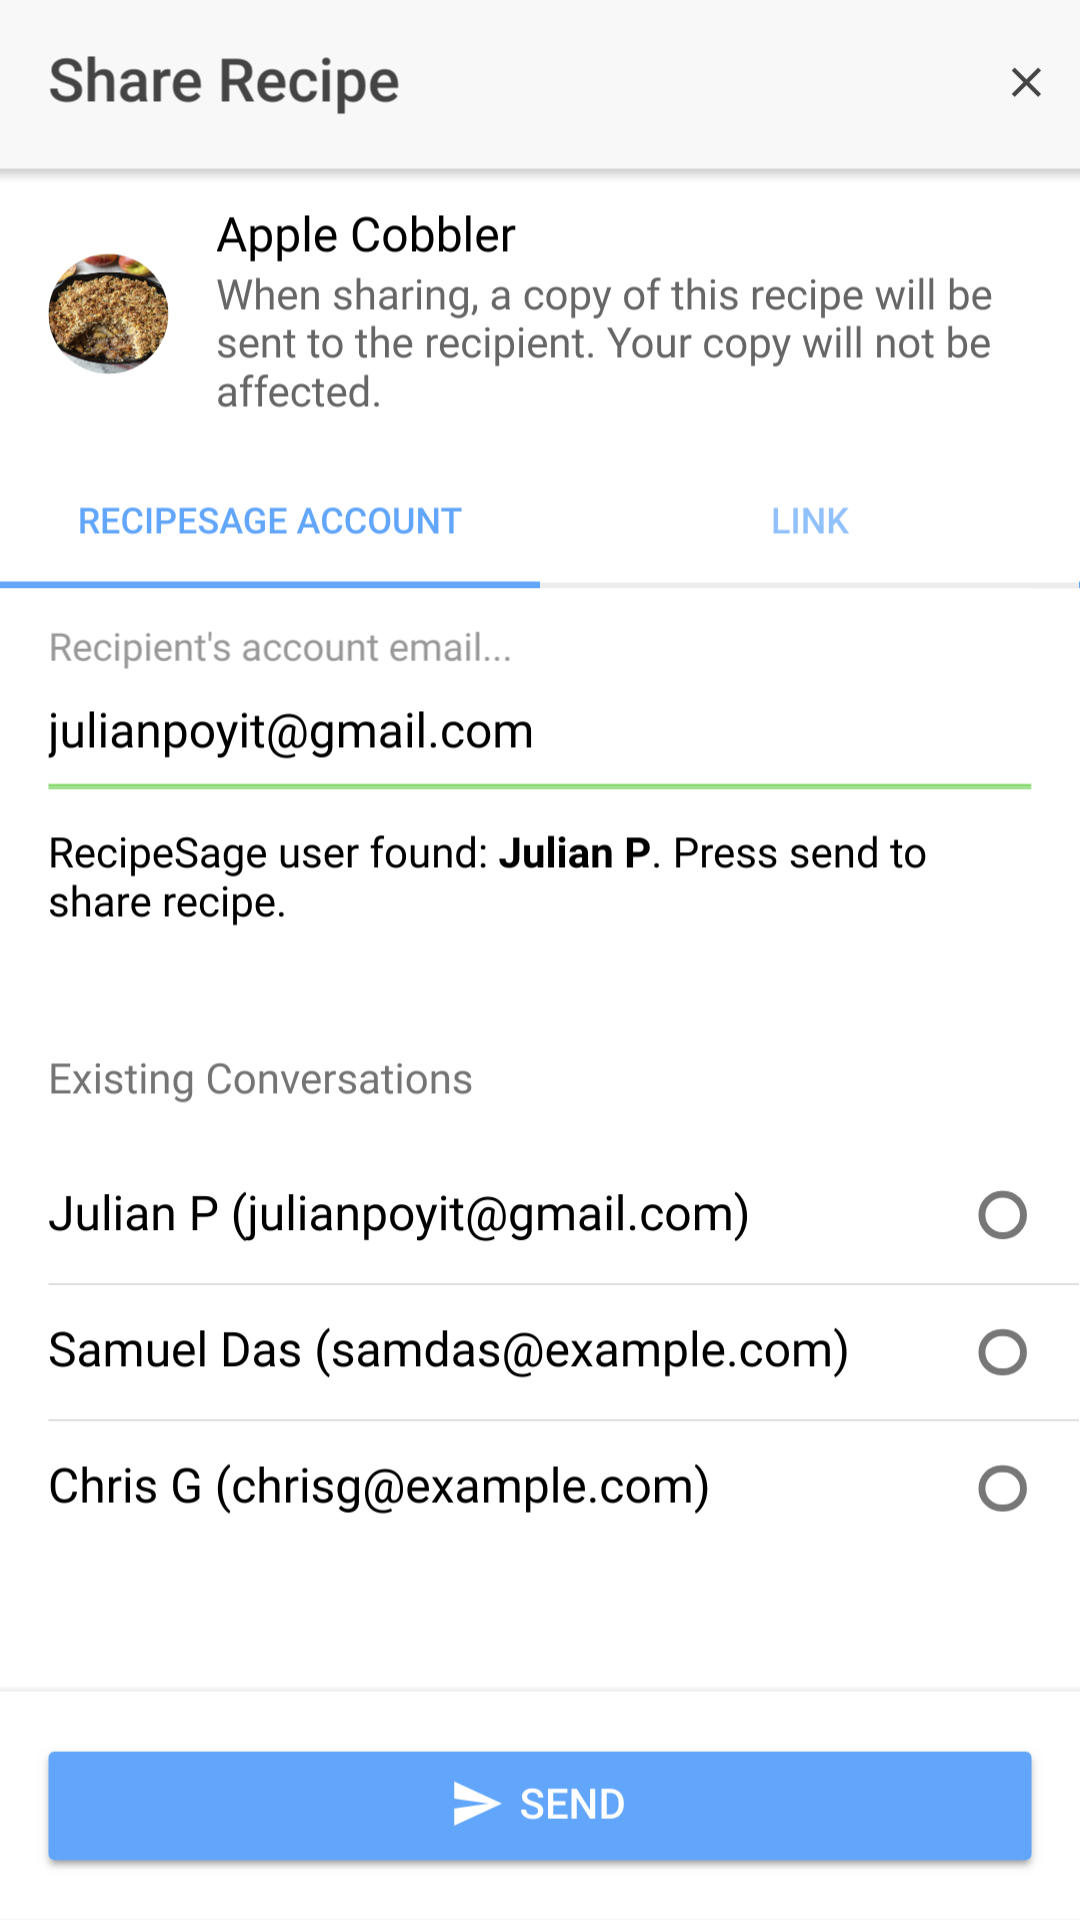
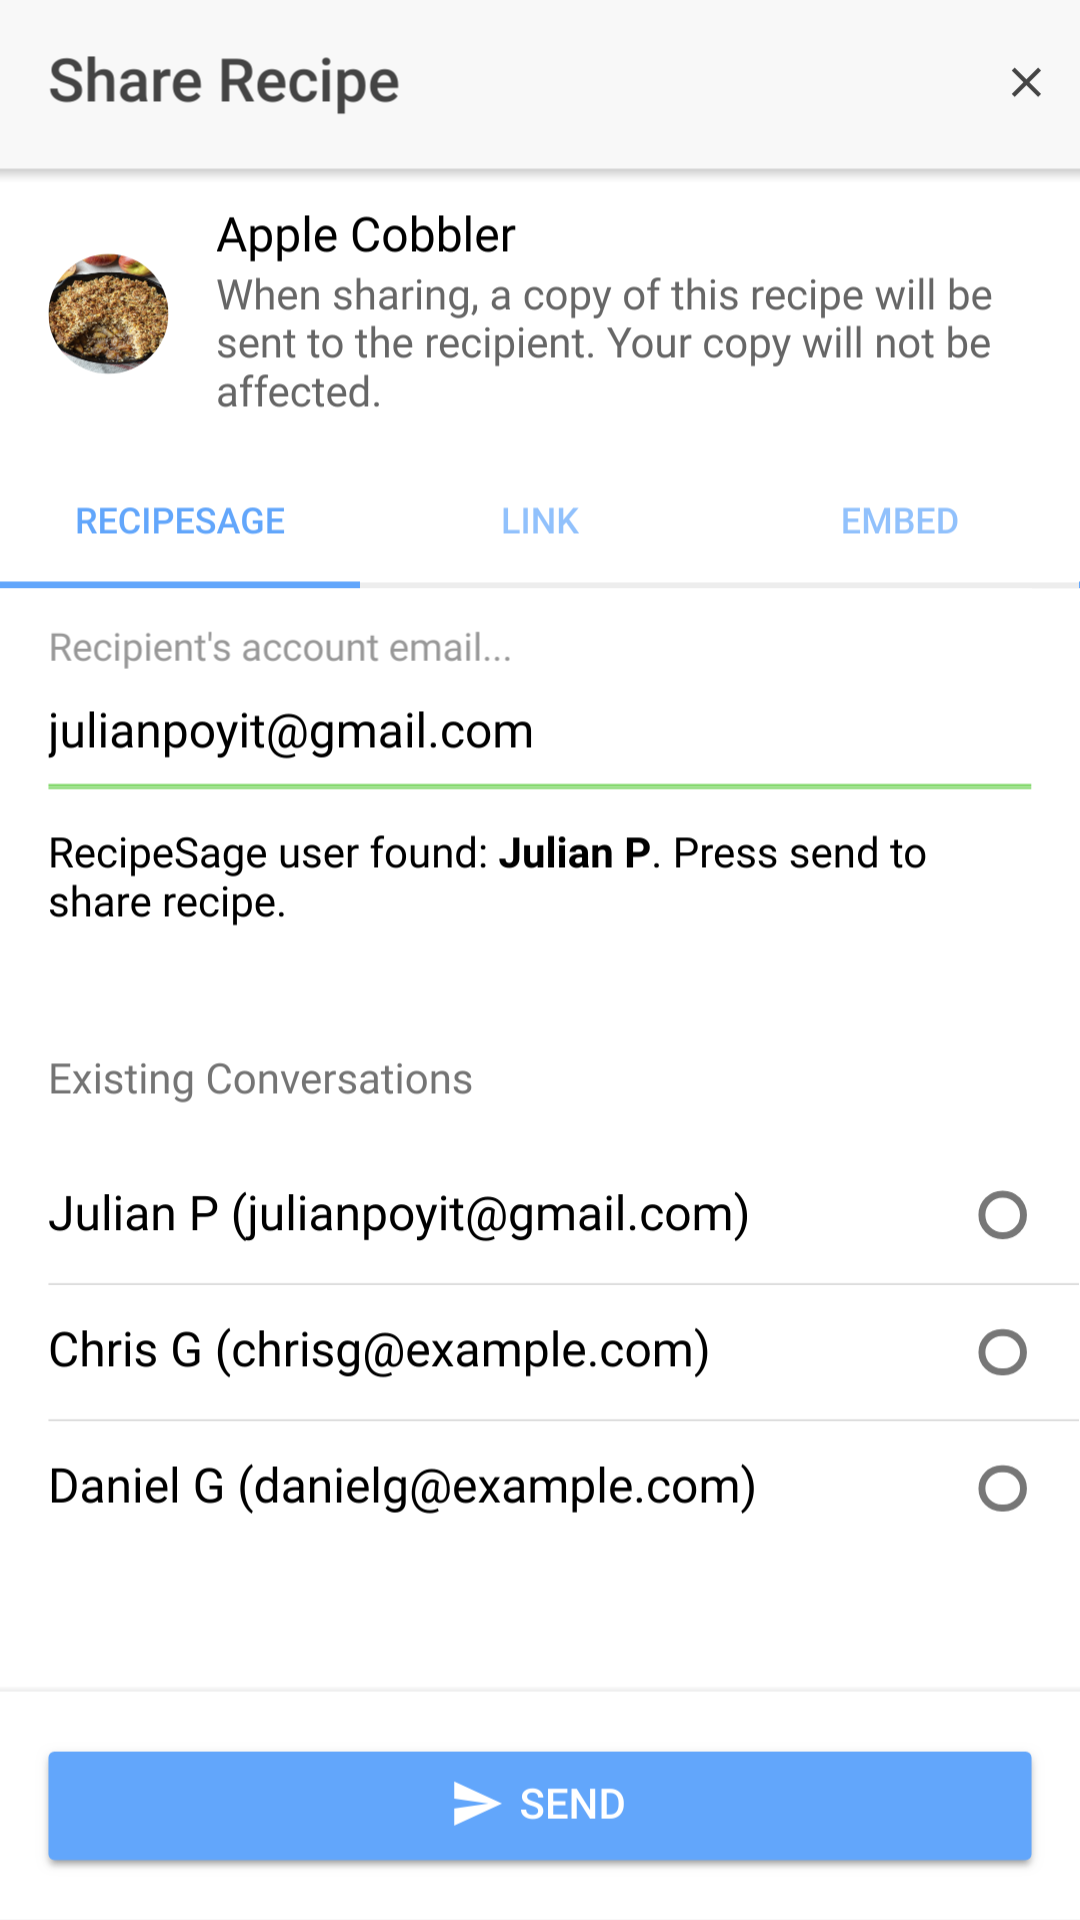
Update tutorials for embed functionality

diff --git a/Frontend/src/pages/info-components/tips-tricks-tutorials/tips-tricks-tutorials.html b/Frontend/src/pages/info-components/tips-tricks-tutorials/tips-tricks-tutorials.html
@@ -250,8 +250,9 @@
         <img src="assets/tutorial/share-recipe-account.png" />
       </div>
       <p>
-        The recipe sharing modal allows you to send a recipe to another RecipeSage user, or share via link.<br /><br />
-        To begin the process of sharing a recipe, press the share button at the bottom
+        The recipe sharing modal allows you to send a recipe to another RecipeSage user's account, share via link, or share via
+        embed.<br /><br />
+        To begin the process of sharing a recipe to another user's account, press the share button at the bottom
         of the recipe details page (as described in the recipe actions tutorial). You'll then be presented with the
         share modal shown in the image above.<br /><br />
         To select a recipient, type the email of the RecipeSage user you'd like to send the recipe to in the field recipient
@@ -271,14 +272,38 @@
         <img src="assets/tutorial/share-recipe-link.png" />
       </div>
       <p>
-        The recipe sharing modal allows you to send a recipe to another RecipeSage user, or share via link.<br /><br />
-        To begin the process of sharing a recipe, press the share button at the bottom
+        The recipe sharing modal allows you to send a recipe to another RecipeSage user's account, share via link, or share via
+        embed.<br /><br />
+        To begin the process of sharing a recipe via link, press the share button at the bottom
         of the recipe details page (as described in the recipe actions tutorial). You'll then be presented with the
         share modal. To share by URL, select the "link" tab.<br /><br />
         Select the URL shown (double click to select for desktop, or tap-and-hold to select for mobile)
         and then copy/paste wherever desired.<br /><br />
         Note: The share button depicted to the right of the URL will only show up on some devices.<br /><br />
         Note: This URL will only be valid if the recipe exists. If you delete the recipe, the link will become invalid.
+      </p>
+
+      <br />
+      <h2>Sharing a Recipe by Embed</h2>
+      <div class="tutorial-image">
+        <img src="assets/tutorial/share-recipe-link.png" />
+      </div>
+      <p>
+        The recipe sharing modal allows you to send a recipe to another RecipeSage user's account, share via link, or share via
+        embed.<br /><br />
+        To begin the process of sharing a recipe via embed, press the share button at the bottom
+        of the recipe details page (as described in the recipe actions tutorial). You'll then be presented with the
+        share modal. To share by embed, select the "embed" tab.<br /><br />
+        Select the options desired, as described below:<br />
+        <b>Show Title Image:</b> Toggling this will enable or disable the display of the image associated with the recipe.<br />
+        <b>Columns:</b> Toggling this will switch the embed between vertical and column-based ingredient/instruction layout.<br />
+        <b>Show Print Button:</b> Toggling this will show or hide the print button within the embed.<br />
+        <b>Hide Sources:</b> Toggling this will show or hide the recipe source and source URL.<br />
+        <b>Hide Notes:</b> Toggling this will show or hide the recipe notes.<br />
+        <b>Height:</b> This will adjust the size of the window when embedded. Note: This will not change the appearance of the preview<br />
+        <b>Width:</b> This will adjust the size of the window when embedded. Note: This will not change the appearance of the preview<br /><br />
+        After you've selected the desired options, copy the provided code and paste it anywhere within the body of your
+        webpage, blog post, etc.
       </p>
 
       <br />
